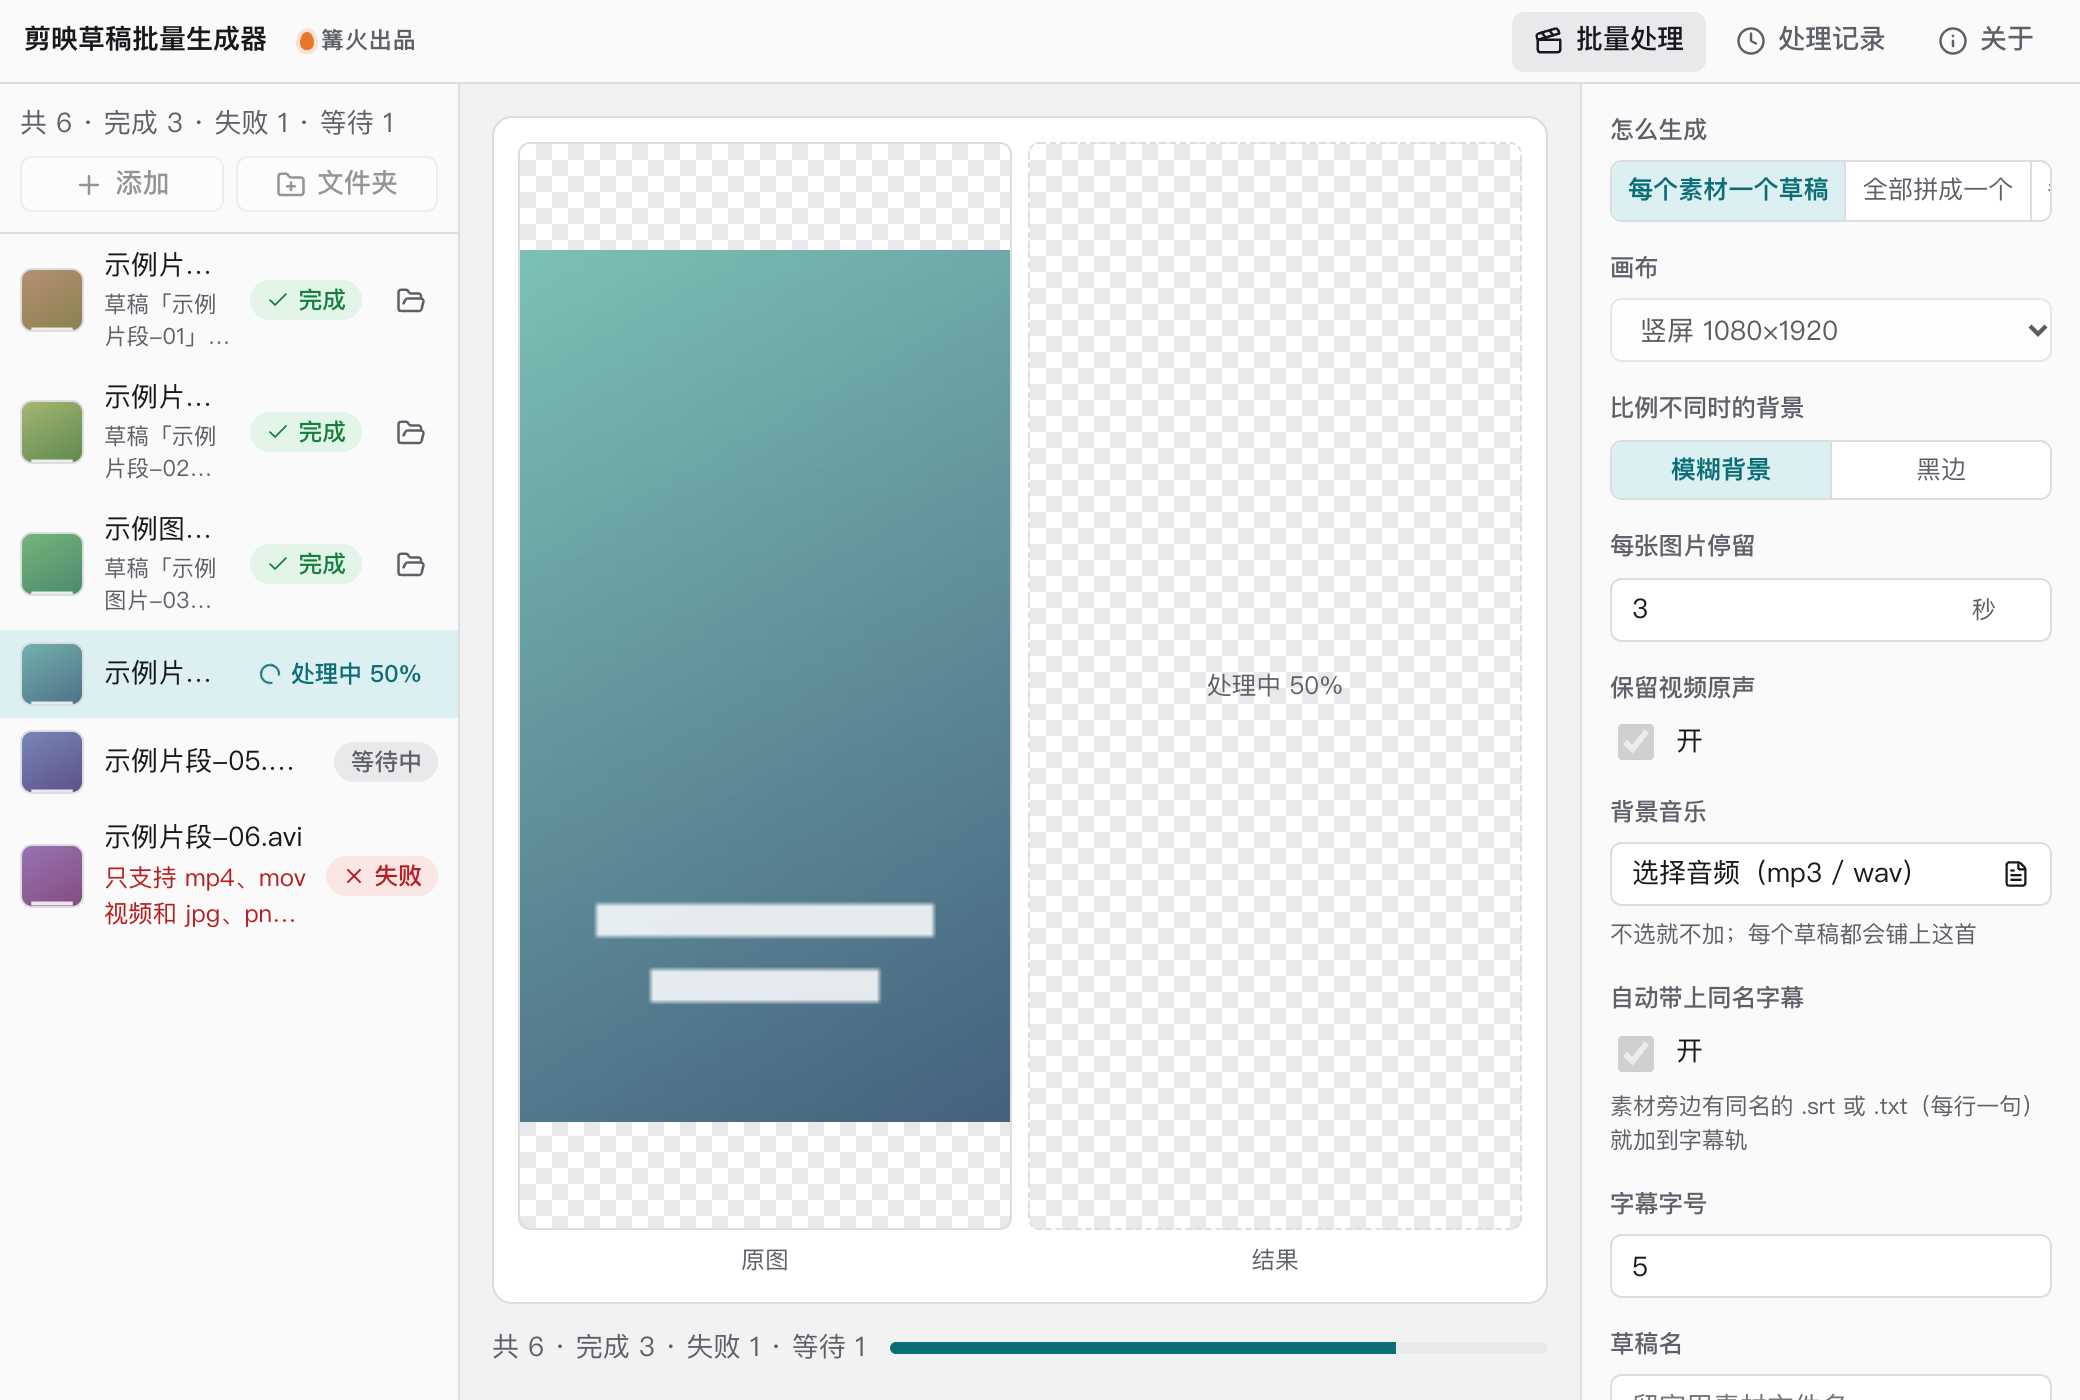
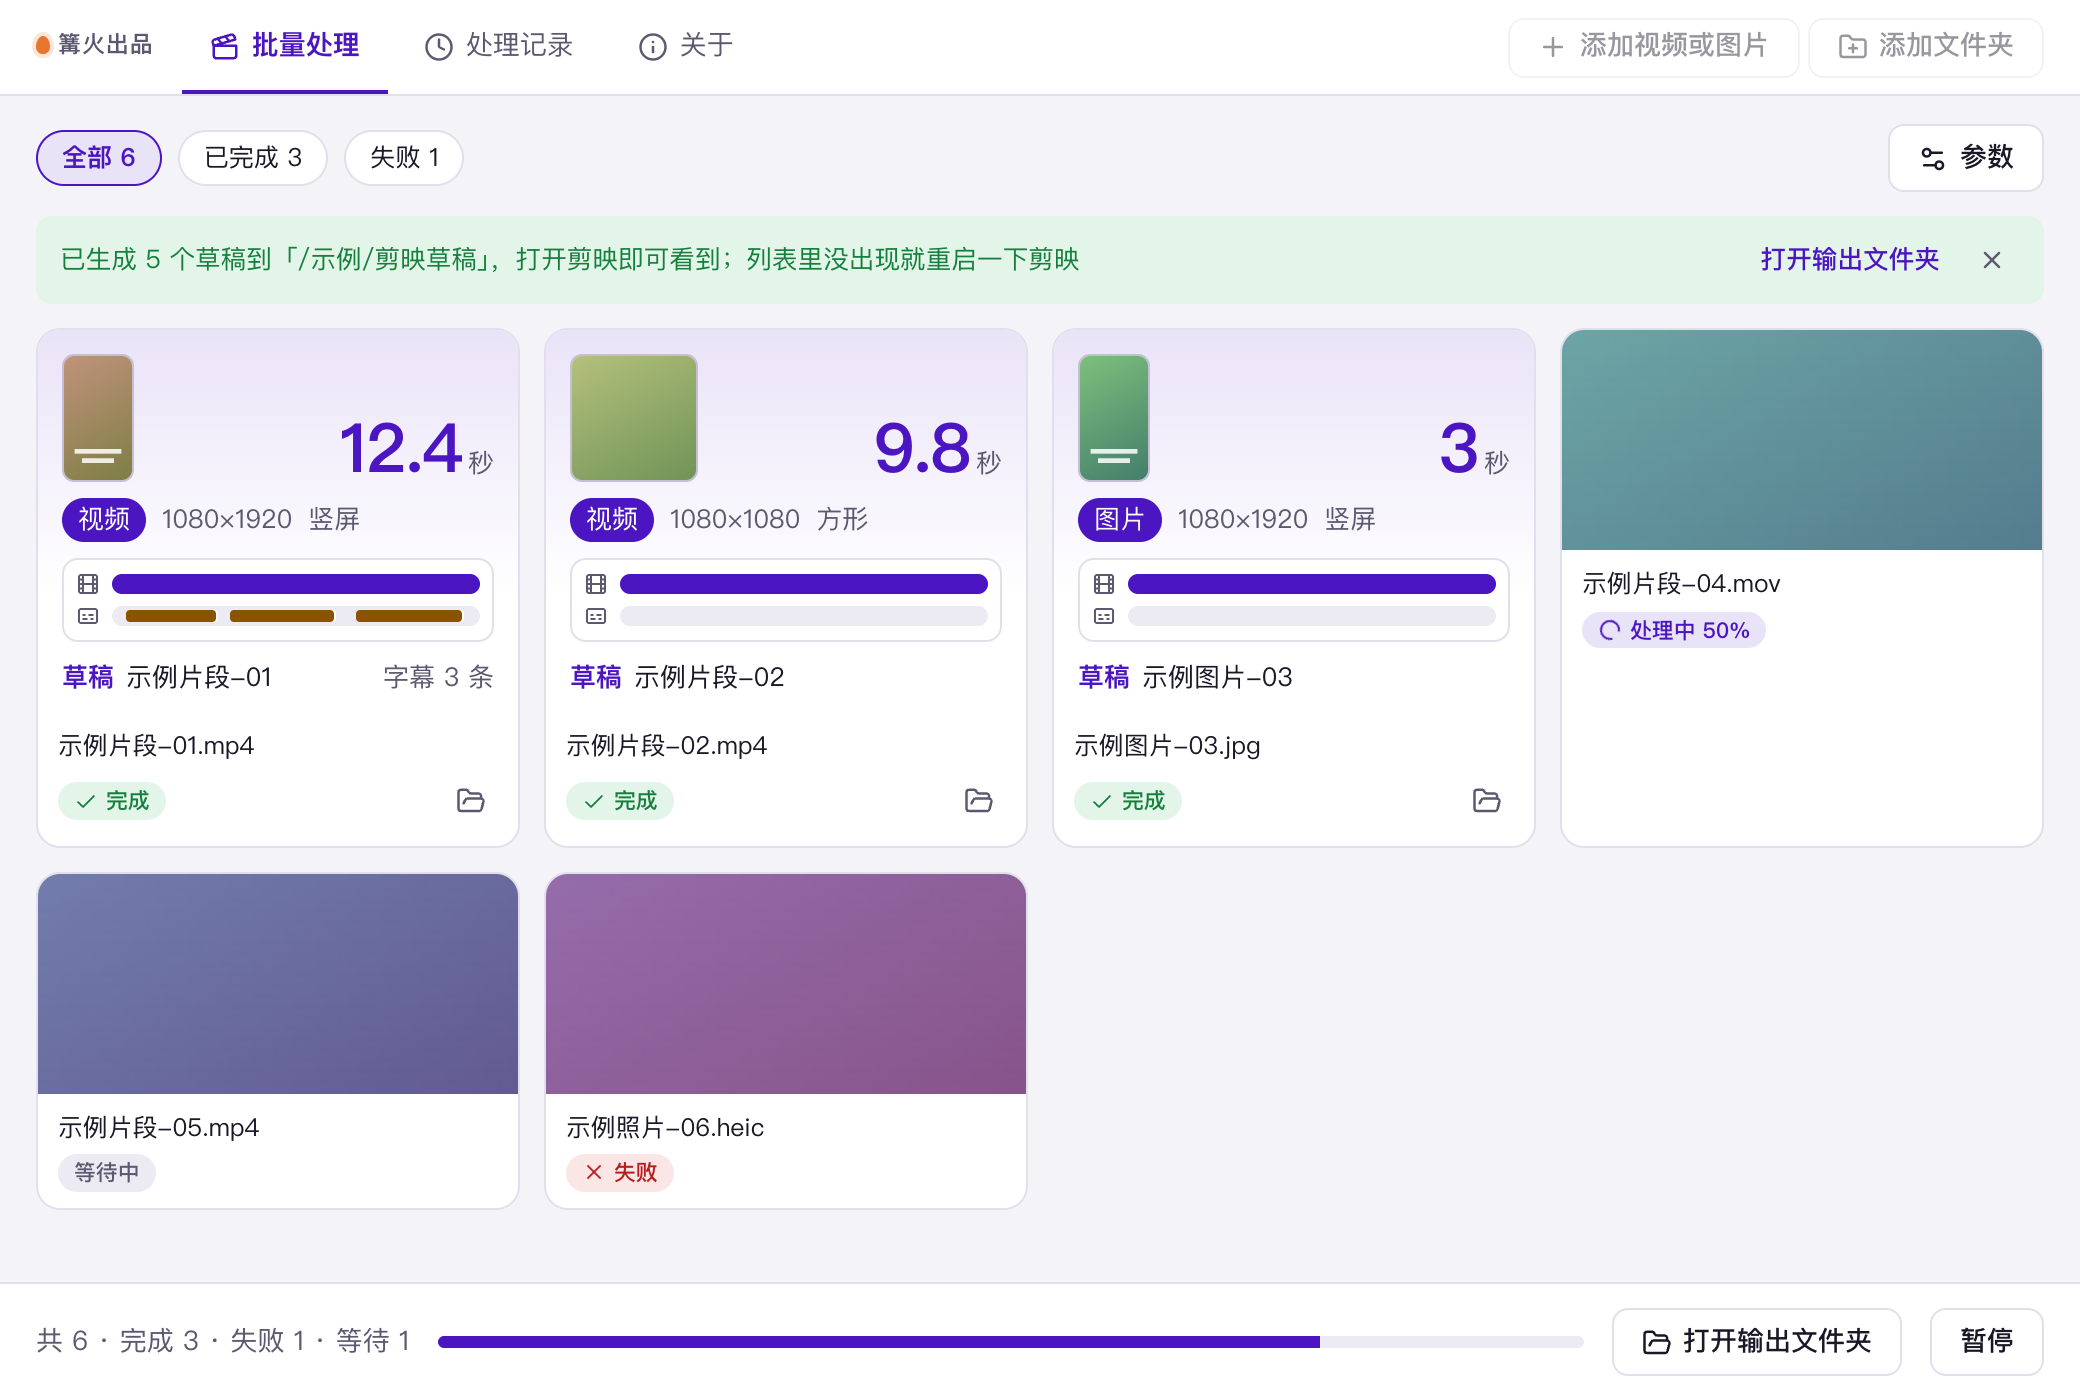
0.2.0：卡片网格版式，草稿时间线卡片，新空状态，全中文

diff --git a/src/tool/view.tsx b/src/tool/view.tsx
@@ -1,0 +1,87 @@
+// 草稿卡片（结果）与空状态示意
+import { Captions, Film, Image as ImageIcon, Music } from 'lucide-react';
+import type { ItemResult } from '../kit/types';
+import { SEC, fmtSec, type MediaInfo } from './core';
+import './view.css';
+
+const lastPart = (p: string) => p.replace(/[\\/]+$/, '').replace(/^.*[\\/]/, '');
+
+/** 结果里的素材时长（秒）：图片取摘要里「N 秒」，读不到按 3 秒 */
+function shownSeconds(m: MediaInfo, summary?: string) {
+  if (m.kind === 'video') return m.duration / SEC;
+  const hit = /(\d+(?:\.\d+)?) 秒/.exec(summary ?? '');
+  return hit ? Number(hit[1]) : 3;
+}
+
+function ratioLabel(w: number, h: number) {
+  if (!w || !h) return '';
+  const r = w / h;
+  return r < 0.9 ? '竖屏' : r > 1.1 ? '横屏' : '方形';
+}
+
+export function ResultBody({ result }: { item: unknown; result: ItemResult }) {
+  const m = result.data as MediaInfo | undefined;
+  if (!m) return <span className="jd-plain">{result.summary}</span>;
+  const secs = shownSeconds(m, result.summary);
+  const total = secs * SEC;
+  const draft = result.outputPath ? lastPart(result.outputPath) : '';
+  const cues = m.subs?.length ? m.subs.map((c) => ({ at: Math.min(0.96, c.start / total), w: Math.max(0.03, c.duration / total) }))
+    : m.subText ? m.subText.split(/\r?\n/).filter((l) => l.trim()).map((_, i, a) => ({ at: i / a.length, w: 0.9 / a.length })) : [];
+  const ratio = m.width && m.height ? Math.max(0.5, Math.min(1.8, m.width / m.height)) : 1;
+  return (
+    <div className="jd-card">
+      <div className="jd-head">
+        <span className="jd-frame" style={{ aspectRatio: String(ratio) }}>
+          {result.preview ? <img src={result.preview} alt="" /> : m.kind === 'video' ? <Film size={14} /> : <ImageIcon size={14} />}
+        </span>
+        <span className="jd-time"><b className="k-num">{secs % 1 === 0 ? secs : secs.toFixed(1)}</b><small>秒</small></span>
+      </div>
+      <div className="jd-meta">
+        <span className="jd-badge">{m.kind === 'video' ? '视频' : '图片'}</span>
+        <span className="k-num">{m.width}×{m.height}</span>
+        {ratioLabel(m.width, m.height) && <span>{ratioLabel(m.width, m.height)}</span>}
+      </div>
+      <div className="jd-tracks" aria-label={`时间线，共 ${fmtSec(total)}`}>
+        <div className="jd-track"><Film size={12} /><span className="jd-lane"><i className="jd-clip" style={{ left: 0, width: '100%' }} /></span></div>
+        <div className="jd-track"><Captions size={12} /><span className="jd-lane">{cues.map((c, i) => <i key={i} className="jd-cue" style={{ left: `${c.at * 100}%`, width: `${c.w * 100}%` }} />)}</span></div>
+      </div>
+      <div className="jd-foot">{draft ? <><b>草稿</b><span className="k-ellipsis" title={draft}>{draft}</span></> : <span>待拼入草稿</span>}{cues.length > 0 && <span className="jd-n k-num">字幕 {m.subs?.length ?? cues.length} 条</span>}</div>
+    </div>
+  );
+}
+
+export function Empty({ hover }: { hover: boolean }) {
+  return (
+    <div className={`jd-empty${hover ? ' hover' : ''}`}>
+      <svg className="jd-art" viewBox="0 0 520 190" role="img" aria-label="几个视频和图片排进剪映草稿的时间线">
+        <g>
+          <rect x="14" y="22" width="84" height="52" rx="8" className="s-a" />
+          <rect x="26" y="62" width="60" height="5" rx="2.5" className="s-a2" />
+          <rect x="14" y="68" width="84" height="52" rx="8" className="s-b" transform="translate(0 6)" />
+          <rect x="14" y="132" width="84" height="40" rx="8" className="s-c" />
+          <text x="56" y="14" textAnchor="middle" className="t-s">一批素材</text>
+        </g>
+        <g className="s-arrow"><path d="M122 98h60" /><path d="M172 88l12 10-12 10" /></g>
+        <g>
+          <rect x="204" y="22" width="302" height="150" rx="12" className="s-board" />
+          <text x="218" y="42" className="t-s">剪映草稿</text>
+          <rect x="218" y="56" width="62" height="22" rx="5" className="s-a" />
+          <rect x="284" y="56" width="90" height="22" rx="5" className="s-b" />
+          <rect x="378" y="56" width="114" height="22" rx="5" className="s-c" />
+          <rect x="234" y="88" width="34" height="9" rx="4.5" className="s-cue" />
+          <rect x="300" y="88" width="48" height="9" rx="4.5" className="s-cue" />
+          <rect x="396" y="88" width="60" height="9" rx="4.5" className="s-cue" />
+          <rect x="218" y="112" width="274" height="14" rx="7" className="s-bgm" />
+          <text x="218" y="150" className="t-s">视频轨 · 字幕轨 · 背景音乐轨</text>
+        </g>
+      </svg>
+      <h2>一批素材，一次排成剪映草稿</h2>
+      <p>把视频或图片拖进窗口，也可以点上方的「添加」。按文件名顺序排进时间线，素材旁同名的字幕、你选的背景音乐会一并加上。</p>
+      <ul className="jd-points">
+        <li><Film size={14} />每个素材一个草稿，或拼成一个</li>
+        <li><Captions size={14} />同名 SRT、TXT 自动成字幕</li>
+        <li><Music size={14} />背景音乐淡入淡出、循环</li>
+      </ul>
+    </div>
+  );
+}

diff --git a/src/tool/view.css b/src/tool/view.css
@@ -1,0 +1,42 @@
+/* 草稿卡片与空状态：颜色全部取外壳令牌，亮暗色自动跟随 */
+.L-f .k-cards { grid-template-columns: repeat(auto-fill, minmax(236px, 1fr)); }
+.L-f .k-card-body { padding: 0; }
+.jd-card { display: grid; gap: 8px; padding: 12px 12px 8px; background: linear-gradient(180deg, var(--primary-soft), transparent 70%); }
+.jd-head { display: flex; align-items: flex-end; justify-content: space-between; gap: 10px; }
+.jd-frame { height: 64px; max-width: 110px; display: grid; place-items: center; overflow: hidden; background: var(--chip); color: var(--muted); border: 1px solid var(--line-strong); border-radius: 6px; }
+.jd-frame img { width: 100%; height: 100%; object-fit: cover; }
+.jd-time { display: flex; align-items: baseline; gap: 3px; color: var(--primary); }
+.jd-time b { font-size: 34px; line-height: 1; font-weight: 700; letter-spacing: -.02em; }
+.jd-time small { font-size: 13px; color: var(--muted); }
+.jd-meta { display: flex; flex-wrap: wrap; align-items: center; gap: 4px 8px; color: var(--muted); font-size: 13px; }
+.jd-badge { padding: 1px 8px; border-radius: var(--radius-pill); background: var(--primary); color: var(--on-primary); font-size: 13px; }
+.jd-tracks { display: grid; gap: 4px; padding: 6px; border-radius: 8px; background: var(--surface); border: 1px solid var(--line); color: var(--muted); }
+.jd-track { display: flex; align-items: center; gap: 6px; }
+.jd-lane { position: relative; flex: 1; height: 10px; border-radius: 5px; background: var(--chip); overflow: hidden; }
+.jd-clip, .jd-cue { position: absolute; top: 0; bottom: 0; border-radius: 5px; transition: width .2s var(--ease); }
+.jd-clip { background: var(--primary); }
+.jd-cue { background: var(--warn); border-radius: 2px; top: 2px; bottom: 2px; box-shadow: 1px 0 0 var(--surface); }
+.jd-foot { display: flex; align-items: center; gap: 6px; font-size: 13px; color: var(--ink); min-width: 0; }
+.jd-foot b { color: var(--primary); font-weight: 600; flex: none; }
+.jd-foot > span:first-of-type { min-width: 0; }
+.jd-n { margin-left: auto; flex: none; color: var(--muted); }
+.jd-plain { font-size: 13px; color: var(--muted); }
+
+.jd-empty { display: grid; justify-items: center; gap: 10px; padding: 24px 28px; text-align: center; max-width: 640px; margin: 0 auto; }
+.jd-empty h2 { margin: 6px 0 0; font-size: 20px; font-weight: 700; }
+.jd-empty p { margin: 0; max-width: 480px; color: var(--muted); line-height: 1.7; font-size: 14px; }
+.jd-art { width: min(100%, 520px); height: auto; }
+.jd-art .s-a { fill: var(--primary); }
+.jd-art .s-a2 { fill: var(--on-primary); opacity: .7; }
+.jd-art .s-b { fill: var(--primary); opacity: .6; }
+.jd-art .s-c { fill: var(--primary); opacity: .32; }
+.jd-art .s-board { fill: var(--surface); stroke: var(--line-strong); stroke-width: 1.5; }
+.jd-art .s-cue { fill: var(--warn); }
+.jd-art .s-bgm { fill: var(--ok); opacity: .75; }
+.jd-art .s-arrow path { fill: none; stroke: var(--muted); stroke-width: 3; stroke-linecap: round; stroke-linejoin: round; }
+.jd-art .t-s { fill: var(--muted); font-size: 13px; font-family: var(--font); }
+.jd-points { display: flex; flex-wrap: wrap; justify-content: center; gap: 8px; margin: 4px 0 0; padding: 0; list-style: none; }
+.jd-points li { display: flex; align-items: center; gap: 6px; min-height: 32px; padding: 0 12px; border-radius: var(--radius-pill); background: var(--chip); color: var(--ink); font-size: 13px; }
+.jd-points svg { color: var(--primary); }
+.jd-empty.hover .jd-art { transform: scale(1.03); }
+.jd-art { transition: transform .2s var(--ease); }

diff --git a/src/tool/index.ts b/src/tool/index.ts
@@ -7,6 +7,7 @@ import {
 } from './core';
 import { buildDraft } from './draft';
 import { probeAudio, probeVisual } from './media';
+import { Empty, ResultBody } from './view';
 
 const nameOf = (p: string) => p.replace(/^.*[\\/]/, '');
 
@@ -109,7 +110,9 @@ const tool: BatchTool = {
   category: '内容生产',
   type: 'media',
   mode: 'batch',
-  resultView: 'list',
+  resultView: 'cards',
+  Empty,
+  ResultBody,
   concurrency: 1,
   accept: { label: '视频或图片', extensions: [...VIDEO_EXT, ...IMAGE_EXT] },
   params: [
@@ -119,7 +122,7 @@ const tool: BatchTool = {
     { key: 'fill', label: '比例不同时的背景', type: 'segment', options: [['blur', '模糊背景'], ['none', '黑边']], default: 'blur' },
     { key: 'imageSeconds', label: '每张图片停留', type: 'number', default: 3, min: 0.5, max: 600, step: 0.5, unit: '秒' },
     { key: 'keepSound', label: '保留视频原声', type: 'toggle', default: true },
-    { key: 'bgm', label: '背景音乐', type: 'file', extensions: AUDIO_EXT, fileLabel: '音频（mp3 / wav）', default: '', help: '不选就不加；每个草稿都会铺上这首' },
+    { key: 'bgm', label: '背景音乐', type: 'file', extensions: AUDIO_EXT, fileLabel: '音频（MP3 / WAV）', default: '', help: '不选就不加；每个草稿都会铺上这首' },
     { key: 'bgmVolume', label: '背景音乐音量', type: 'number', default: 60, min: 0, max: 100, unit: '%', when: (p) => Boolean(p.bgm) },
     { key: 'bgmFade', label: '淡入淡出', type: 'number', default: 1, min: 0, max: 10, step: 0.5, unit: '秒', when: (p) => Boolean(p.bgm) },
     { key: 'bgmLoop', label: '音乐不够长时循环', type: 'toggle', default: true, when: (p) => Boolean(p.bgm) },
@@ -127,7 +130,7 @@ const tool: BatchTool = {
     { key: 'srt', label: '整段字幕（SRT）', type: 'file', extensions: ['srt'], fileLabel: 'SRT 字幕', default: '', when: (p) => p.mode === 'all', help: '可选：按整个草稿的时间轴对齐，放在单独一条字幕轨' },
     { key: 'subtitleSize', label: '字幕字号', type: 'number', default: 5, min: 1, max: 30, when: (p) => Boolean(p.autoSubs) || Boolean(p.srt) },
     { key: 'prefix', label: '草稿名', type: 'text', default: '', placeholder: '留空用素材文件名', help: '逐个生成时作前缀；拼接时作草稿名，默认「批量草稿」' },
-    { key: 'root', label: '剪映草稿文件夹', type: 'folder', default: '', help: '在剪映「全局设置 → 草稿位置」查看，一般以 JianyingPro Drafts 结尾' },
+    { key: 'root', label: '剪映草稿文件夹', type: 'folder', default: '', help: '在剪映「全局设置 → 草稿位置」查看，选中那个文件夹即可' },
   ],
 
   async run(item: InputItem, ctx: RunContext): Promise<ItemResult> {

diff --git a/src/tool/preview.ts b/src/tool/preview.ts
@@ -18,8 +18,15 @@ const list: [string, number, Row['status'], string?, string?][] = [
   ['示例图片-03.jpg', 940_000, 'ok', '草稿「示例图片-03」 · 图片 · 3 秒 · 1080×1920'],
   ['示例片段-04.mov', 31_000_000, 'run'],
   ['示例片段-05.mp4', 12_900_000, 'wait'],
-  ['示例片段-06.avi', 8_000_000, 'err', undefined, '只支持 mp4、mov 视频和 jpg、png 图片'],
+  ['示例照片-06.heic', 8_000_000, 'err', undefined, '只支持 mp4、mov 视频和 jpg、png 图片'],
 ];
+
+const US = 1_000_000;
+const demo = (name: string, i: number) => {
+  const dur = [12.4, 9.8, 0, 15.2, 8, 0][i] ?? 8;
+  const subs = i === 0 ? [[0.5, 3], [4, 3.5], [8.2, 3.6]].map(([a, d]) => ({ start: a * US, duration: d * US, text: '示例字幕' })) : i === 3 ? [[1, 4], [6, 4], [11, 3.5]].map(([a, d]) => ({ start: a * US, duration: d * US, text: '示例字幕' })) : undefined;
+  return { path: `/示例/${name}`, name, kind: /图片/.test(name) ? 'photo' : 'video', duration: dur * US, width: 1080, height: i === 1 ? 1080 : 1920, subs };
+};
 
 export const rows = (state: string): Row[] =>
   state === 'empty' ? [] : list.map(([name, size, status, summary, error], i) => {
@@ -29,8 +36,10 @@ export const rows = (state: string): Row[] =>
       status: st,
       progress: st === 'run' ? 0.5 : st === 'ok' ? 1 : 0,
       error: st === 'err' ? error : undefined,
-      result: st === 'ok' ? { summary: summary ?? '草稿「示例」 · 视频 · 8 秒 · 1080×1920', outputPath: '/示例/JianyingPro Drafts', preview: thumb(20 + i * 50) } : undefined,
+      result: st === 'ok' ? { summary: summary ?? '草稿「示例」 · 视频 · 8 秒 · 1080×1920', outputPath: `/示例/剪映草稿/${name.replace(/\.[^.]+$/, '')}`, preview: thumb(20 + i * 50), data: demo(name, i) } : undefined,
     };
   });
 
-export const params = { mode: 'each', canvas: '1080x1920', root: '/示例/JianyingPro Drafts' };
+export const params = { mode: 'each', canvas: '1080x1920', root: '/示例/剪映草稿' };
+
+export const notice = { kind: 'ok' as const, text: '已生成 5 个草稿到「/示例/剪映草稿」，打开剪映即可看到；列表里没出现就重启一下剪映' };

diff --git a/CHANGELOG.md b/CHANGELOG.md
@@ -1,5 +1,12 @@
 # 更新记录
 
+## 0.2.0
+
+- 换成顶部标签加卡片网格的版式，主色改为深紫。
+- 每个草稿一张卡片：大字显示时长，画出视频轨和字幕轨，标明画面比例、素材类型、字幕条数和草稿名。
+- 空状态改成「一批素材排进剪映草稿」的示意图，并列出三个要点。
+- 界面和示例数据只留中文。
+
 ## 0.1.0
 
 - 首个版本。
